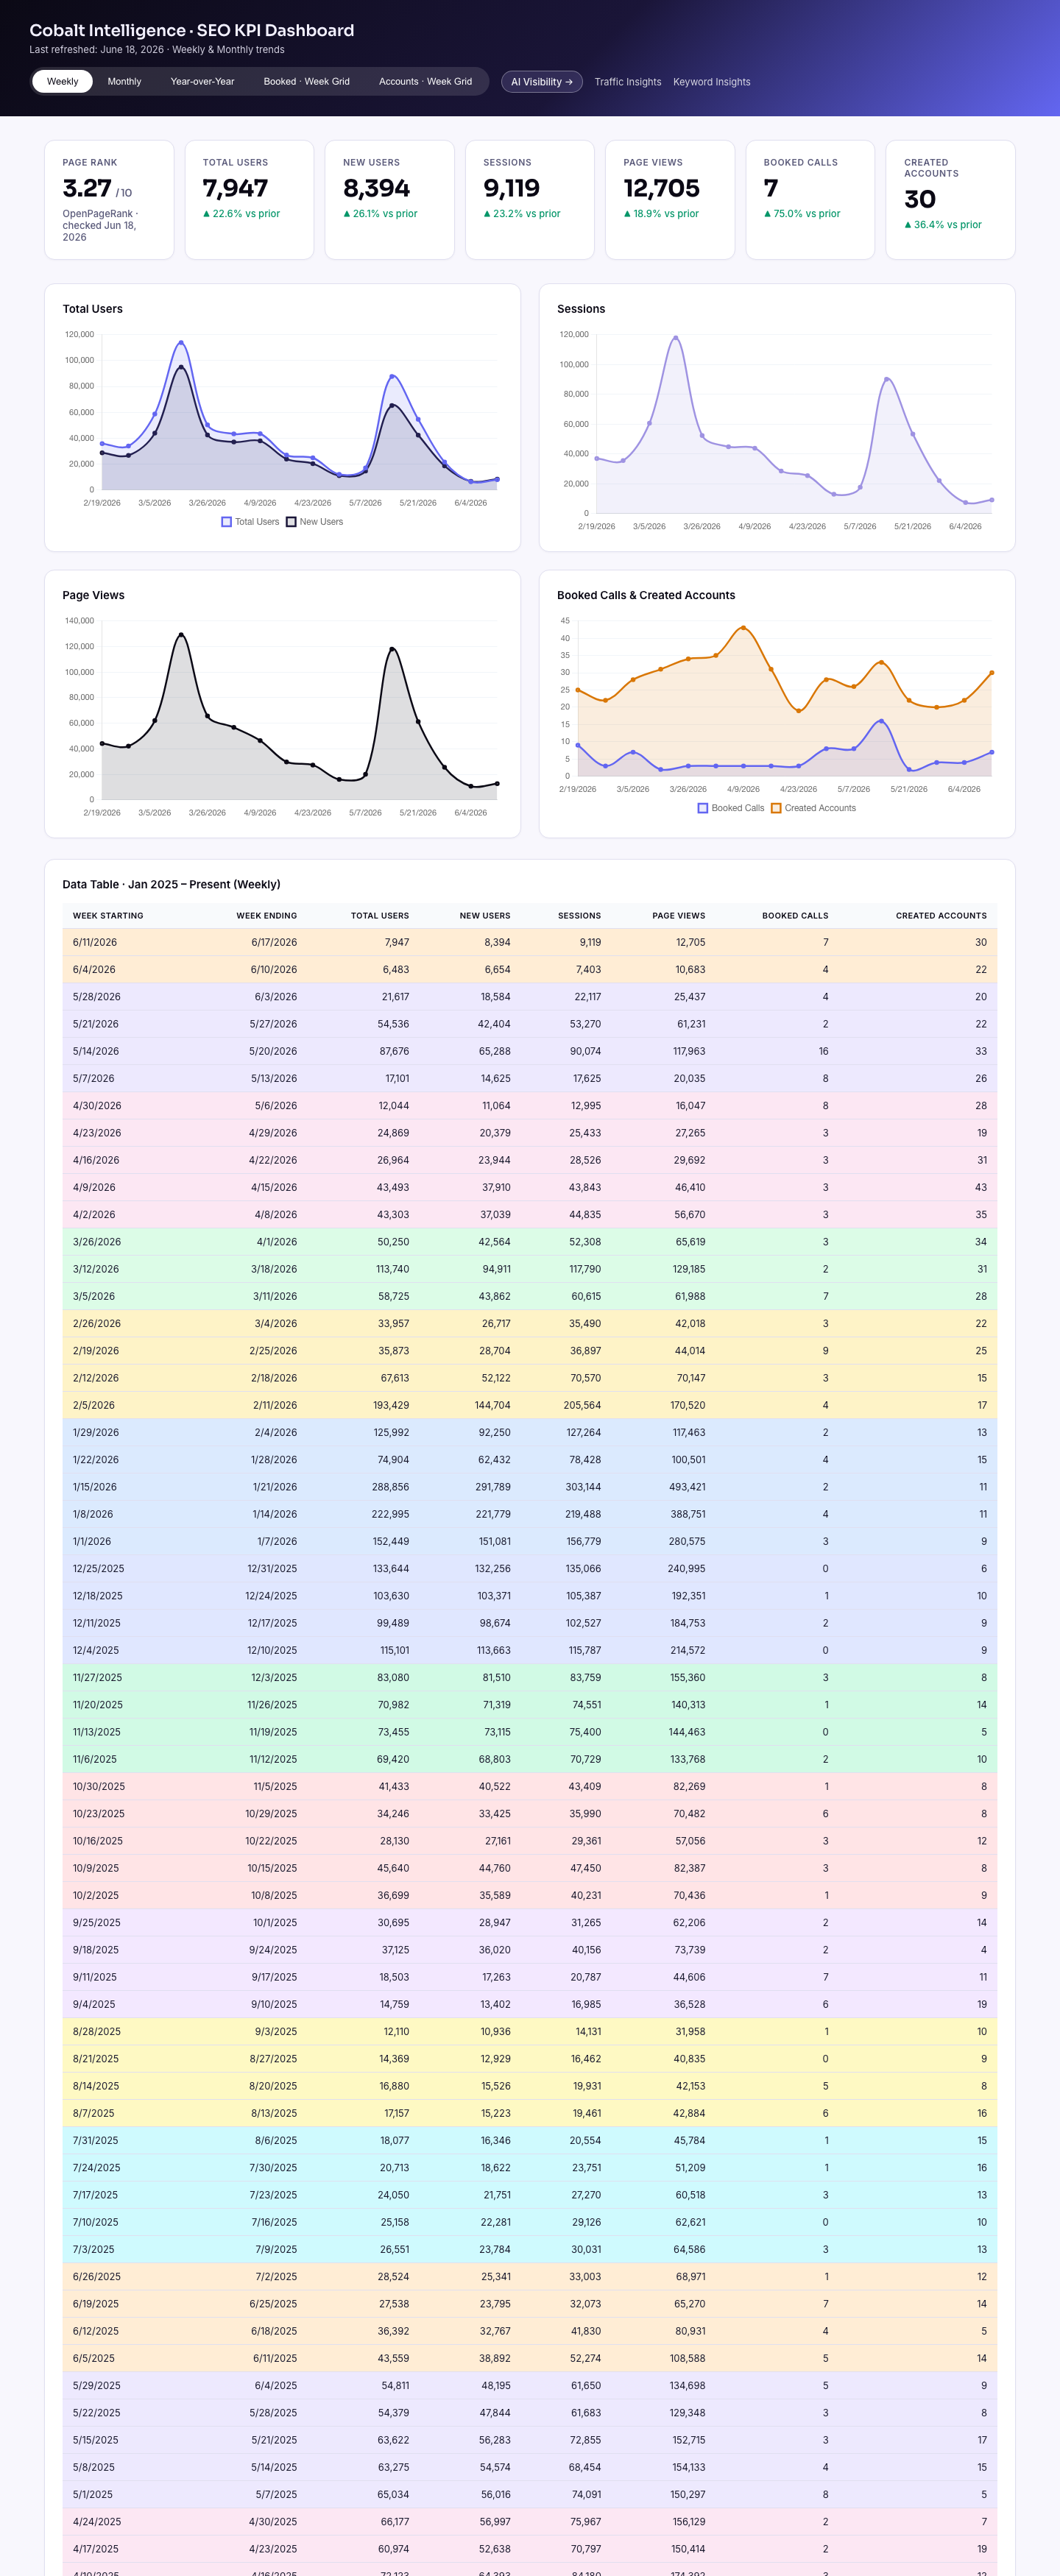
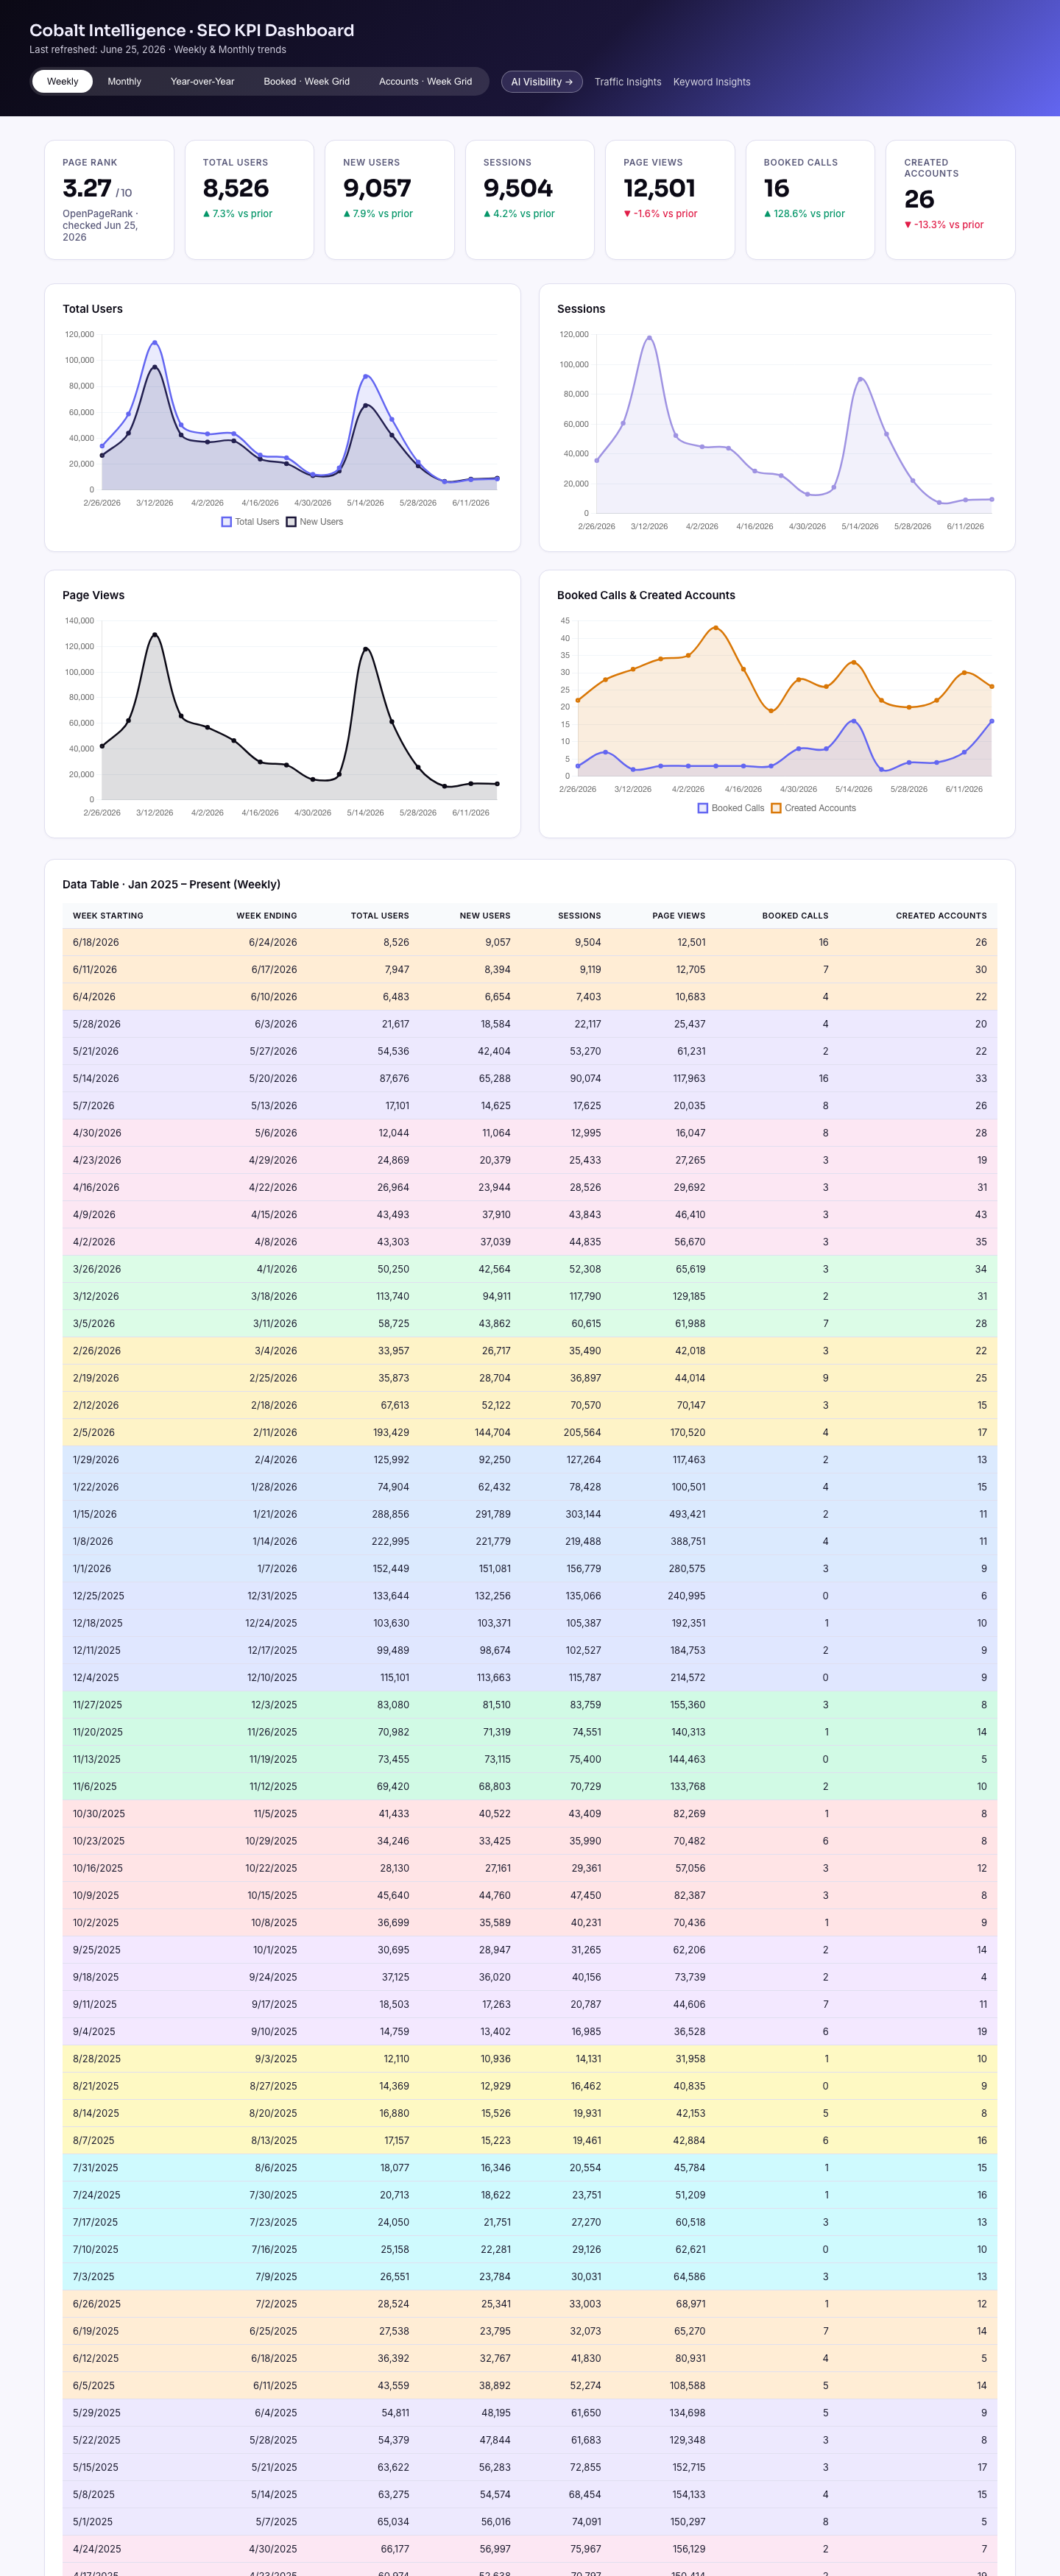
Weekly status: June 18 to June 24, 2026

diff --git a/2026-w25.html b/2026-w25.html
@@ -1,0 +1,153 @@
+<!DOCTYPE html>
+<html lang="en">
+<head>
+<meta charset="UTF-8">
+<meta name="viewport" content="width=device-width, initial-scale=1">
+<title>Cobalt Intelligence Weekly Status, Week of June 11 to June 17, 2026</title>
+<link href="https://fonts.googleapis.com/css2?family=Sora:wght@500;600;700&family=Inter:wght@400;500;600;700&display=swap" rel="stylesheet">
+<style>
+:root{--navy:#0F172A;--slate:#1E293B;--blue:#0047AB;--blue-light:#2563C8;--bg:#F8FAFC;--card:#FFFFFF;--text:#0F172A;--muted:#64748B;--border:#E2E8F0;--green:#059669;--green-bg:#D1FAE5;--amber:#D97706;--amber-bg:#FEF3C7}
+*{box-sizing:border-box}
+body{margin:0;font-family:Inter,-apple-system,BlinkMacSystemFont,"Segoe UI",sans-serif;background:var(--bg);color:var(--text);line-height:1.55}
+h1,h2,h3{font-family:Sora,Inter,sans-serif;letter-spacing:0}
+header.hero{background:linear-gradient(135deg,var(--navy) 0%,var(--slate) 58%,var(--blue) 100%);color:white;padding:32px 44px}
+header.hero .eyebrow{font-size:12px;letter-spacing:.12em;text-transform:uppercase;opacity:.78;margin-bottom:6px}
+header.hero h1{margin:0 0 6px;font-size:24px;font-weight:600}
+header.hero .sub{font-size:13.5px;opacity:.86}
+header.hero .meta{margin-top:12px;font-size:12.5px;display:flex;gap:22px;flex-wrap:wrap;opacity:.92}
+main{max-width:980px;margin:0 auto;padding:28px 36px 64px}
+.report-actions{max-width:980px;margin:0 auto;padding:18px 36px 0;display:flex;justify-content:flex-end}
+.pdf-button{border:1px solid rgba(15,23,42,.14);border-radius:8px;background:var(--blue);color:#F8FAFC;display:inline-flex;align-items:center;gap:8px;font:700 13px/1 Inter,sans-serif;padding:11px 14px;text-decoration:none;box-shadow:0 8px 18px rgba(0,71,171,.18)}
+.pdf-button:hover{background:var(--blue-light);border-bottom-color:rgba(15,23,42,.14)}
+.lede,.group{background:var(--card);border:1px solid var(--border);border-radius:10px}
+.lede{padding:16px 22px;margin-bottom:24px;font-size:14px;color:var(--slate)}
+.lede strong{color:var(--navy)}
+section.module{margin-top:28px}
+section.module>h2{font-size:18px;color:var(--navy);margin:0 0 14px;padding-bottom:6px;border-bottom:2px solid var(--blue);display:inline-block}
+.group{padding:16px 22px;margin-bottom:12px}
+.group h3{font-size:14px;color:var(--navy);margin:0 0 10px;font-weight:600;display:flex;align-items:center;gap:8px;flex-wrap:wrap}
+.pill{font-size:10.5px;font-weight:800;padding:2px 8px;border-radius:4px;letter-spacing:.05em;text-transform:uppercase;color:var(--green);background:var(--green-bg)}
+.pill.amber{color:var(--amber);background:var(--amber-bg)}
+ul{margin:0;padding-left:20px;font-size:13px;color:var(--slate);line-height:1.65}
+li{margin-bottom:4px}
+li strong{color:var(--navy)}
+a{color:var(--blue);text-decoration:none;border-bottom:1px solid rgba(0,71,171,.25)}
+a:hover{border-bottom-color:var(--blue)}
+.source-line{font-size:11.5px;color:var(--muted);margin-top:8px}
+.dash-card{background:var(--card);border:1px solid var(--border);border-radius:10px;overflow:hidden;margin-bottom:18px}
+.dash-head{padding:12px 20px 10px;border-bottom:1px solid var(--border)}
+.dash-title-row{display:flex;align-items:center;justify-content:space-between;gap:12px;flex-wrap:wrap;margin-bottom:3px}
+.dash-head h3{margin:0;font-size:14px;color:var(--navy)}
+.dash-head .src{font-size:11.5px;color:var(--muted)}
+.dash-link{border:1px solid rgba(0,71,171,.25);border-radius:6px;color:var(--blue);font-size:11.5px;font-weight:700;padding:5px 8px;background:#F8FAFC;white-space:nowrap}
+.dash-link:hover{border-color:var(--blue);background:#EFF6FF}
+.dash-card img{display:block;width:100%;height:auto;filter:brightness(.985)}
+footer{margin-top:36px;padding-top:18px;border-top:1px solid var(--border);font-size:11.5px;color:var(--muted);display:flex;justify-content:space-between;gap:12px;flex-wrap:wrap}
+@media screen and (max-width:720px){main{padding:20px 18px 52px}.report-actions{padding:16px 18px 0}.pdf-button{width:100%;justify-content:center}header.hero{padding:26px 22px}header.hero h1{font-size:20px}}
+@media print{@page{margin:.26in;background-color:#EEF2F7}html,body{background:#EEF2F7}.report-actions{display:none}header.hero{padding:13px 22px}header.hero h1{font-size:19px}header.hero .eyebrow{font-size:10px}header.hero .sub{font-size:10.5px}header.hero .meta{margin-top:6px;font-size:9.5px;gap:14px}main{padding:8px 0 0;max-width:none}.lede,.group{background:#F8FAFC}.lede{padding:8px 12px;margin-bottom:8px;font-size:9.5px;line-height:1.28}section.module{margin-top:8px}section.module>h2{font-size:12px;margin-bottom:5px;padding-bottom:3px}.group{padding:7px 12px;margin-bottom:6px}.group h3{font-size:10.5px;margin-bottom:4px}.pill{font-size:8.5px;padding:1px 7px}ul{font-size:8.8px;line-height:1.25}.source-line{font-size:8px;margin-top:3px}.lede,.dash-head{break-inside:avoid}.dashboard-section{display:none}footer{display:none}}
+</style>
+</head>
+<body>
+<header class="hero">
+  <div class="eyebrow">Cobalt Intelligence Weekly Status</div>
+  <h1>Week of June 11 to June 17, 2026</h1>
+  <div class="sub">Meeting report for Jordan: current dashboards, shipped items, and open handoffs.</div>
+  <div class="meta">
+    <span><strong>For:</strong> Jordan</span>
+    <span><strong>From:</strong> Shela</span>
+    <span><strong>Period:</strong> June 11 to June 17, 2026</span>
+    <span><strong>Generated:</strong> June 18, 2026</span>
+  </div>
+</header>
+<div class="report-actions" aria-label="Report actions"><a class="pdf-button" href="weekly-status-jordan-2026-06-11-to-2026-06-17.pdf" download>Save as PDF</a></div>
+<main>
+  <div class="lede">
+    Biggest signal this week: <strong>traffic recovered from last week's drop and conversion count improved.</strong> June 11 to June 17 closed at <strong>7.9K users</strong>, <strong>9.1K sessions</strong>, <strong>12.7K views</strong>, <strong>7 booked calls</strong>, and <strong>30 created accounts</strong>. Newsletter performance stayed above the benchmark at <strong>58.7% latest open rate</strong>. YouTube's primary read is subscriber motion: <strong>36 new subscribers</strong>, <strong>48 unsubscribes</strong>, and <strong>net -12 subscribers</strong> in the export window.
+  </div>
+
+  <section class="module">
+    <h2>Dashboard Summary</h2>
+    <div class="group">
+      <ul>
+        <li><strong>Website Traffic</strong> improved week over week: users moved to 7.9K, sessions to 9.1K, and views to 12.7K.</li>
+        <li><strong>Conversions</strong> moved in the right direction: 7 booked calls and 30 created accounts, up from 4 and 22 last week.</li>
+        <li><strong>Traffic Insights</strong> shows 2.5K tracked sessions for June 11 to June 17, with "Other" as the largest bucket and Organic Search still the best blog channel.</li>
+        <li><strong>Domain Rating</strong> is 3.27/10 on the OpenPageRank scale. OpenPageRank is a different scale from the old Ahrefs DR.</li>
+        <li><strong>AI Visibility</strong> is current from the June 14 AEO run: 39.0% combined mention rate, 8 cited-answer wins, and 12 visible content gaps.</li>
+        <li><strong>AEO wins</strong> remain strongest around Secretary of State API, real-time SOS, and Cobalt verification prompts.</li>
+        <li><strong>Newsletter</strong> latest edition produced 369 unique opens and a 58.7% open rate, with a 53.6% average open rate across 104 editions.</li>
+        <li><strong>YouTube</strong> subscriber motion is the primary metric this week: 36 new subscribers, 48 unsubscribes, and net -12 subscribers, alongside 11,759 views and 7,041 engaged views.</li>
+      </ul>
+    </div>
+  </section>
+
+  <section class="module">
+    <h2>Completed This Week</h2>
+    <div class="group">
+      <h3>Dashboard refresh and report package <span class="pill">Done</span></h3>
+      <ul>
+        <li><strong>SEO KPI, Traffic Insights, AEO, Newsletter KPI, and YouTube KPI</strong> were refreshed or rechecked before screenshotting.</li>
+        <li><strong>The current weekly row is live</strong> for June 11 to June 17: 7.9K users, 9.1K sessions, 12.7K views, 7 booked calls, and 30 created accounts.</li>
+        <li><strong>All five dashboard screenshots</strong> were captured from the live dashboard URLs for Jordan's reference.</li>
+      </ul>
+      <div class="source-line">Source: refreshed dashboard chain and live weekly CSV, June 18.</div>
+    </div>
+
+    <div class="group">
+      <h3>Newsletter signal surfaced <span class="pill">Done</span></h3>
+      <ul>
+        <li><strong>Beyond Banks produced a product question</strong> from a reader asking whether Cobalt has a business license API and how to use it.</li>
+        <li><strong>This is a useful customer-language signal</strong> for product education, business license API positioning, and follow-up content.</li>
+        <li><strong>The newsletter KPI remains healthy</strong> with the latest edition at 58.7% open rate.</li>
+      </ul>
+      <div class="source-line">Source: <a href="https://cobaltintelligence.slack.com/archives/C05KJJHDT6C/p1781542220769879">#marketing, June 15</a>.</div>
+    </div>
+
+    <div class="group">
+      <h3>YouTube content cadence updated <span class="pill">Done</span></h3>
+      <ul>
+        <li><strong>Subscriber movement is the primary read</strong>: 36 new subscribers, 48 unsubscribes, and net -12 subscribers in the export window.</li>
+        <li><strong>Seven videos were published</strong> from May 21 to June 18, with 11,759 views and 7,041 engaged views.</li>
+        <li><strong>Top new video by engaged views</strong>: "Secretary of State CLI: Audit Receipts in One npm Install" with 118 engaged views.</li>
+        <li><strong>Newest tracked video</strong>: "EIN Check at Intake vs W-9 Cleanup After: The Cost Gap" with 94 engaged views and 49.0% stayed to watch.</li>
+      </ul>
+      <div class="source-line">Source: YouTube content export provided June 18.</div>
+    </div>
+  </section>
+
+  <section class="module">
+    <h2>In Progress</h2>
+    <div class="group">
+      <h3>AEO and content gap follow-up <span class="pill amber">In Progress</span></h3>
+      <ul>
+        <li><strong>AI visibility improved to 39.0%</strong>, but 12 prompts still show content gaps.</li>
+        <li><strong>Highest-priority gaps</strong> include registered-business API, Texas company lookups, New York company checks, and step-by-step SOS API queries.</li>
+        <li><strong>Next content pass</strong> should connect the new verification cost content to those AEO gaps.</li>
+      </ul>
+      <div class="source-line">Source: AEO dashboard, June 14 run.</div>
+    </div>
+
+    <div class="group">
+      <h3>Content repurposing queue <span class="pill amber">In Progress</span></h3>
+      <ul>
+        <li><strong>The Build vs Buy SOS Verification blog is live</strong> and YouTube Shorts variants were prepared for the topic.</li>
+        <li><strong>Carousel follow-up remains open</strong> for the same topic so the blog has a LinkedIn companion asset.</li>
+        <li><strong>YouTube retention should guide packaging</strong>: CLI, EIN, KYB intake, and manual-verification topics are the strongest recent engaged-view cluster.</li>
+      </ul>
+      <div class="source-line">Source: current content queue state and YouTube export, June 18.</div>
+    </div>
+  </section>
+
+  <section class="module dashboard-section">
+    <h2>Standing Dashboards</h2>
+    <div class="dash-card"><div class="dash-head"><div class="dash-title-row"><h3>SEO KPI Dashboard</h3><a class="dash-link" href="https://laladim.github.io/life-dashboard-site/seo-kpi-dashboard.html" target="_blank" rel="noopener">Open dashboard</a></div><div class="src">Year-to-date traffic, conversions, and OpenPageRank.</div></div><img src="assets/seo-kpi-dashboard.png" alt="SEO KPI dashboard screenshot"></div>
+    <div class="dash-card"><div class="dash-head"><div class="dash-title-row"><h3>Traffic Insights</h3><a class="dash-link" href="https://laladim.github.io/life-dashboard-site/traffic-insights.html" target="_blank" rel="noopener">Open dashboard</a></div><div class="src">Weekly traffic breakdown and movement.</div></div><img src="assets/traffic-insights.png" alt="Traffic insights dashboard screenshot"></div>
+    <div class="dash-card"><div class="dash-head"><div class="dash-title-row"><h3>AI Visibility Dashboard</h3><a class="dash-link" href="https://laladim.github.io/life-dashboard-site/aeo-dashboard.html" target="_blank" rel="noopener">Open dashboard</a></div><div class="src">AEO prompt visibility and gaps.</div></div><img src="assets/aeo-dashboard.png" alt="AI visibility dashboard screenshot"></div>
+    <div class="dash-card"><div class="dash-head"><div class="dash-title-row"><h3>Newsletter KPI Dashboard</h3><a class="dash-link" href="https://laladim.github.io/life-dashboard-site/newsletter-kpi-dashboard.html" target="_blank" rel="noopener">Open dashboard</a></div><div class="src">Beyond Banks edition performance.</div></div><img src="assets/newsletter-kpi-dashboard.png" alt="Newsletter KPI dashboard screenshot"></div>
+    <div class="dash-card"><div class="dash-head"><div class="dash-title-row"><h3>YouTube KPI Dashboard</h3><a class="dash-link" href="https://laladim.github.io/life-dashboard-site/youtube-kpi-dashboard.html" target="_blank" rel="noopener">Open dashboard</a></div><div class="src">Cobalt YouTube video and subscriber motion.</div></div><img src="assets/youtube-kpi-dashboard.png" alt="YouTube KPI dashboard screenshot"></div>
+  </section>
+
+  <footer><span>Generated June 18, 2026 for Jordan meeting prep.</span><span>Root URL always shows the latest weekly report.</span></footer>
+</main>
+</body>
+</html>

diff --git a/index.html b/index.html
@@ -3,10 +3,10 @@
 <head>
 <meta charset="UTF-8">
 <meta name="viewport" content="width=device-width, initial-scale=1">
-<title>Cobalt Intelligence Weekly Status, Week of June 11 to June 17, 2026</title>
+<title>Cobalt Intelligence Weekly Status, Week of June 18 to June 24, 2026</title>
 <link href="https://fonts.googleapis.com/css2?family=Sora:wght@500;600;700&family=Inter:wght@400;500;600;700&display=swap" rel="stylesheet">
 <style>
-:root{--navy:#0F172A;--slate:#1E293B;--blue:#0047AB;--blue-light:#2563C8;--bg:#F8FAFC;--card:#FFFFFF;--text:#0F172A;--muted:#64748B;--border:#E2E8F0;--green:#059669;--green-bg:#D1FAE5;--amber:#D97706;--amber-bg:#FEF3C7}
+:root{--navy:#0F172A;--slate:#1E293B;--blue:#0047AB;--blue-light:#2563C8;--bg:#F8FAFC;--card:#FFFFFF;--text:#0F172A;--muted:#64748B;--border:#E2E8F0;--green:#059669;--green-bg:#D1FAE5;--amber:#D97706;--amber-bg:#FEF3C7;--red:#B91C1C;--red-bg:#FEE2E2}
 *{box-sizing:border-box}
 body{margin:0;font-family:Inter,-apple-system,BlinkMacSystemFont,"Segoe UI",sans-serif;background:var(--bg);color:var(--text);line-height:1.55}
 h1,h2,h3{font-family:Sora,Inter,sans-serif;letter-spacing:0}
@@ -28,6 +28,7 @@ section.module>h2{font-size:18px;color:var(--navy);margin:0 0 14px;padding-botto
 .group h3{font-size:14px;color:var(--navy);margin:0 0 10px;font-weight:600;display:flex;align-items:center;gap:8px;flex-wrap:wrap}
 .pill{font-size:10.5px;font-weight:800;padding:2px 8px;border-radius:4px;letter-spacing:.05em;text-transform:uppercase;color:var(--green);background:var(--green-bg)}
 .pill.amber{color:var(--amber);background:var(--amber-bg)}
+.pill.red{color:var(--red);background:var(--red-bg)}
 ul{margin:0;padding-left:20px;font-size:13px;color:var(--slate);line-height:1.65}
 li{margin-bottom:4px}
 li strong{color:var(--navy)}
@@ -50,33 +51,33 @@ footer{margin-top:36px;padding-top:18px;border-top:1px solid var(--border);font-
 <body>
 <header class="hero">
   <div class="eyebrow">Cobalt Intelligence Weekly Status</div>
-  <h1>Week of June 11 to June 17, 2026</h1>
-  <div class="sub">Meeting report for Jordan: current dashboards, shipped items, and open handoffs.</div>
+  <h1>Week of June 18 to June 24, 2026</h1>
+  <div class="sub">Meeting report for Jordan: current dashboards, shipped attribution work, and open handoffs.</div>
   <div class="meta">
     <span><strong>For:</strong> Jordan</span>
     <span><strong>From:</strong> Shela</span>
-    <span><strong>Period:</strong> June 11 to June 17, 2026</span>
-    <span><strong>Generated:</strong> June 18, 2026</span>
+    <span><strong>Period:</strong> June 18 to June 24, 2026</span>
+    <span><strong>Generated:</strong> June 25, 2026</span>
   </div>
 </header>
-<div class="report-actions" aria-label="Report actions"><a class="pdf-button" href="weekly-status-jordan-2026-06-11-to-2026-06-17.pdf" download>Save as PDF</a></div>
+<div class="report-actions" aria-label="Report actions"><a class="pdf-button" href="weekly-status-jordan-2026-06-18-to-2026-06-24.pdf" download>Save as PDF</a></div>
 <main>
   <div class="lede">
-    Biggest signal this week: <strong>traffic recovered from last week's drop and conversion count improved.</strong> June 11 to June 17 closed at <strong>7.9K users</strong>, <strong>9.1K sessions</strong>, <strong>12.7K views</strong>, <strong>7 booked calls</strong>, and <strong>30 created accounts</strong>. Newsletter performance stayed above the benchmark at <strong>58.7% latest open rate</strong>. YouTube's primary read is subscriber motion: <strong>36 new subscribers</strong>, <strong>48 unsubscribes</strong>, and <strong>net -12 subscribers</strong> in the export window.
+    Biggest signal this week: <strong>traffic and booked-call volume improved, while created accounts stayed below last week.</strong> June 18 to June 24 closed at <strong>8.5K users</strong>, <strong>9.5K sessions</strong>, <strong>12.5K views</strong>, <strong>16 booked calls</strong>, and <strong>26 created accounts</strong>. The main shipped item is signup attribution into Close, with paid and blog UTM paths now merged and deployed.
   </div>
 
   <section class="module">
     <h2>Dashboard Summary</h2>
     <div class="group">
       <ul>
-        <li><strong>Website Traffic</strong> improved week over week: users moved to 7.9K, sessions to 9.1K, and views to 12.7K.</li>
-        <li><strong>Conversions</strong> moved in the right direction: 7 booked calls and 30 created accounts, up from 4 and 22 last week.</li>
-        <li><strong>Traffic Insights</strong> shows 2.5K tracked sessions for June 11 to June 17, with "Other" as the largest bucket and Organic Search still the best blog channel.</li>
-        <li><strong>Domain Rating</strong> is 3.27/10 on the OpenPageRank scale. OpenPageRank is a different scale from the old Ahrefs DR.</li>
-        <li><strong>AI Visibility</strong> is current from the June 14 AEO run: 39.0% combined mention rate, 8 cited-answer wins, and 12 visible content gaps.</li>
-        <li><strong>AEO wins</strong> remain strongest around Secretary of State API, real-time SOS, and Cobalt verification prompts.</li>
-        <li><strong>Newsletter</strong> latest edition produced 369 unique opens and a 58.7% open rate, with a 53.6% average open rate across 104 editions.</li>
-        <li><strong>YouTube</strong> subscriber motion is the primary metric this week: 36 new subscribers, 48 unsubscribes, and net -12 subscribers, alongside 11,759 views and 7,041 engaged views.</li>
+        <li><strong>Website Traffic</strong> moved up week over week: users rose to 8.5K and sessions rose to 9.5K, while page views held near 12.5K.</li>
+        <li><strong>Conversions</strong> were mixed in a useful way: booked calls jumped to 16 from 7, while created accounts moved to 26 from 30.</li>
+        <li><strong>Traffic Insights</strong> shows 2,285 tracked sessions for June 18 to June 24, with the blog as the largest tracked bucket at 800 sessions.</li>
+        <li><strong>Domain Rating</strong> remains 3.27/10 on the OpenPageRank scale, checked June 25. OpenPageRank is a different scale from the old Ahrefs DR.</li>
+        <li><strong>AI Visibility</strong> is current from the June 21 AEO run: 38.3% combined mention rate, 59 of 154 prompts cited by at least one engine, 8 wins, and 12 gaps.</li>
+        <li><strong>AEO wins</strong> remain strongest around Secretary of State API and Cobalt vs Middesk prompts; the biggest gaps remain registered-business, Texas, New York, and step-by-step SOS API queries.</li>
+        <li><strong>Newsletter</strong> dashboard data is not current for this week. Latest dashboard data is June 9: 369 unique opens, 58.66% open rate, and 375 average unique opens across the last 5 tracked editions.</li>
+        <li><strong>YouTube</strong> still uses the corrected Content Type export through June 3: 11,759 views, 7,041 engaged views, 105.0 watch hours, 36 new subscribers, 48 unsubscribes, and net -12 subscribers.</li>
       </ul>
     </div>
   </section>
@@ -84,57 +85,27 @@ footer{margin-top:36px;padding-top:18px;border-top:1px solid var(--border);font-
   <section class="module">
     <h2>Completed This Week</h2>
     <div class="group">
-      <h3>Dashboard refresh and report package <span class="pill">Done</span></h3>
+      <h3>Signup attribution wired into Close <span class="pill">Done</span></h3>
       <ul>
-        <li><strong>SEO KPI, Traffic Insights, AEO, Newsletter KPI, and YouTube KPI</strong> were refreshed or rechecked before screenshotting.</li>
-        <li><strong>The current weekly row is live</strong> for June 11 to June 17: 7.9K users, 9.1K sessions, 12.7K views, 7 booked calls, and 30 created accounts.</li>
-        <li><strong>All five dashboard screenshots</strong> were captured from the live dashboard URLs for Jordan's reference.</li>
+        <li><strong>Two attribution PRs were merged and deployed</strong> for the signup path.</li>
+        <li><strong>Working Planet paid ads now preserve paid params</strong> and write Paid Ads source, network, source, and keyword into Close.</li>
+        <li><strong>Blog CTAs now preserve UTM params</strong> and write UTM source, medium, campaign, and content into Close so the signup-driving blog slug is visible.</li>
+        <li><strong>Copilot review comments were addressed</strong>, review threads were resolved, and CI passed on both PRs before merge.</li>
       </ul>
-      <div class="source-line">Source: refreshed dashboard chain and live weekly CSV, June 18.</div>
-    </div>
-
-    <div class="group">
-      <h3>Newsletter signal surfaced <span class="pill">Done</span></h3>
-      <ul>
-        <li><strong>Beyond Banks produced a product question</strong> from a reader asking whether Cobalt has a business license API and how to use it.</li>
-        <li><strong>This is a useful customer-language signal</strong> for product education, business license API positioning, and follow-up content.</li>
-        <li><strong>The newsletter KPI remains healthy</strong> with the latest edition at 58.7% open rate.</li>
-      </ul>
-      <div class="source-line">Source: <a href="https://cobaltintelligence.slack.com/archives/C05KJJHDT6C/p1781542220769879">#marketing, June 15</a>.</div>
-    </div>
-
-    <div class="group">
-      <h3>YouTube content cadence updated <span class="pill">Done</span></h3>
-      <ul>
-        <li><strong>Subscriber movement is the primary read</strong>: 36 new subscribers, 48 unsubscribes, and net -12 subscribers in the export window.</li>
-        <li><strong>Seven videos were published</strong> from May 21 to June 18, with 11,759 views and 7,041 engaged views.</li>
-        <li><strong>Top new video by engaged views</strong>: "Secretary of State CLI: Audit Receipts in One npm Install" with 118 engaged views.</li>
-        <li><strong>Newest tracked video</strong>: "EIN Check at Intake vs W-9 Cleanup After: The Cost Gap" with 94 engaged views and 49.0% stayed to watch.</li>
-      </ul>
-      <div class="source-line">Source: YouTube content export provided June 18.</div>
+      <div class="source-line">Source: <a href="https://cobaltintelligence.slack.com/archives/C05KJJHDT6C/p1781867268815629?thread_ts=1781867268.815629&cid=C05KJJHDT6C">#marketing, June 19</a>; <a href="https://cobaltintelligence.slack.com/archives/C05KJJHDT6C/p1782180022919939?thread_ts=1781867268.815629&cid=C05KJJHDT6C">#marketing, June 23</a>; <a href="https://cobaltintelligence.slack.com/archives/C05KJJHDT6C/p1782180083706649?thread_ts=1781867268.815629&cid=C05KJJHDT6C">#marketing, June 23 correction</a>.</div>
     </div>
   </section>
 
   <section class="module">
     <h2>In Progress</h2>
     <div class="group">
-      <h3>AEO and content gap follow-up <span class="pill amber">In Progress</span></h3>
+      <h3>Demo booking attribution follow-ups <span class="pill amber">In Progress</span></h3>
       <ul>
-        <li><strong>AI visibility improved to 39.0%</strong>, but 12 prompts still show content gaps.</li>
-        <li><strong>Highest-priority gaps</strong> include registered-business API, Texas company lookups, New York company checks, and step-by-step SOS API queries.</li>
-        <li><strong>Next content pass</strong> should connect the new verification cost content to those AEO gaps.</li>
+        <li><strong>Production demo landing page still needs a root-cause check</strong> because the live probe returned a CloudFront 403.</li>
+        <li><strong>SavvyCal access path is still the next dependency</strong> for building a SavvyCal to Close sync so booking metadata updates the matching Close lead.</li>
+        <li><strong>Post-deploy verification remains open</strong>: run one paid signup and one blog UTM signup, then confirm the expected fields land in Close.</li>
       </ul>
-      <div class="source-line">Source: AEO dashboard, June 14 run.</div>
-    </div>
-
-    <div class="group">
-      <h3>Content repurposing queue <span class="pill amber">In Progress</span></h3>
-      <ul>
-        <li><strong>The Build vs Buy SOS Verification blog is live</strong> and YouTube Shorts variants were prepared for the topic.</li>
-        <li><strong>Carousel follow-up remains open</strong> for the same topic so the blog has a LinkedIn companion asset.</li>
-        <li><strong>YouTube retention should guide packaging</strong>: CLI, EIN, KYB intake, and manual-verification topics are the strongest recent engaged-view cluster.</li>
-      </ul>
-      <div class="source-line">Source: current content queue state and YouTube export, June 18.</div>
+      <div class="source-line">Source: <a href="https://cobaltintelligence.slack.com/archives/C05KJJHDT6C/p1781867268815629?thread_ts=1781867268.815629&cid=C05KJJHDT6C">#marketing, June 19</a>.</div>
     </div>
   </section>
 
@@ -143,11 +114,11 @@ footer{margin-top:36px;padding-top:18px;border-top:1px solid var(--border);font-
     <div class="dash-card"><div class="dash-head"><div class="dash-title-row"><h3>SEO KPI Dashboard</h3><a class="dash-link" href="https://laladim.github.io/life-dashboard-site/seo-kpi-dashboard.html" target="_blank" rel="noopener">Open dashboard</a></div><div class="src">Year-to-date traffic, conversions, and OpenPageRank.</div></div><img src="assets/seo-kpi-dashboard.png" alt="SEO KPI dashboard screenshot"></div>
     <div class="dash-card"><div class="dash-head"><div class="dash-title-row"><h3>Traffic Insights</h3><a class="dash-link" href="https://laladim.github.io/life-dashboard-site/traffic-insights.html" target="_blank" rel="noopener">Open dashboard</a></div><div class="src">Weekly traffic breakdown and movement.</div></div><img src="assets/traffic-insights.png" alt="Traffic insights dashboard screenshot"></div>
     <div class="dash-card"><div class="dash-head"><div class="dash-title-row"><h3>AI Visibility Dashboard</h3><a class="dash-link" href="https://laladim.github.io/life-dashboard-site/aeo-dashboard.html" target="_blank" rel="noopener">Open dashboard</a></div><div class="src">AEO prompt visibility and gaps.</div></div><img src="assets/aeo-dashboard.png" alt="AI visibility dashboard screenshot"></div>
-    <div class="dash-card"><div class="dash-head"><div class="dash-title-row"><h3>Newsletter KPI Dashboard</h3><a class="dash-link" href="https://laladim.github.io/life-dashboard-site/newsletter-kpi-dashboard.html" target="_blank" rel="noopener">Open dashboard</a></div><div class="src">Beyond Banks edition performance.</div></div><img src="assets/newsletter-kpi-dashboard.png" alt="Newsletter KPI dashboard screenshot"></div>
-    <div class="dash-card"><div class="dash-head"><div class="dash-title-row"><h3>YouTube KPI Dashboard</h3><a class="dash-link" href="https://laladim.github.io/life-dashboard-site/youtube-kpi-dashboard.html" target="_blank" rel="noopener">Open dashboard</a></div><div class="src">Cobalt YouTube video and subscriber motion.</div></div><img src="assets/youtube-kpi-dashboard.png" alt="YouTube KPI dashboard screenshot"></div>
+    <div class="dash-card"><div class="dash-head"><div class="dash-title-row"><h3>Newsletter KPI Dashboard</h3><a class="dash-link" href="https://laladim.github.io/life-dashboard-site/newsletter-kpi-dashboard.html" target="_blank" rel="noopener">Open dashboard</a></div><div class="src">Beyond Banks edition performance. Current dashboard data runs through June 9.</div></div><img src="assets/newsletter-kpi-dashboard.png" alt="Newsletter KPI dashboard screenshot"></div>
+    <div class="dash-card"><div class="dash-head"><div class="dash-title-row"><h3>YouTube KPI Dashboard</h3><a class="dash-link" href="https://laladim.github.io/life-dashboard-site/youtube-kpi-dashboard.html" target="_blank" rel="noopener">Open dashboard</a></div><div class="src">Cobalt YouTube video and subscriber motion from the corrected Content Type export.</div></div><img src="assets/youtube-kpi-dashboard.png" alt="YouTube KPI dashboard screenshot"></div>
   </section>
 
-  <footer><span>Generated June 18, 2026 for Jordan meeting prep.</span><span>Root URL always shows the latest weekly report.</span></footer>
+  <footer><span>Generated June 25, 2026 for Jordan meeting prep.</span><span>Root URL always shows the latest weekly report.</span></footer>
 </main>
 </body>
 </html>